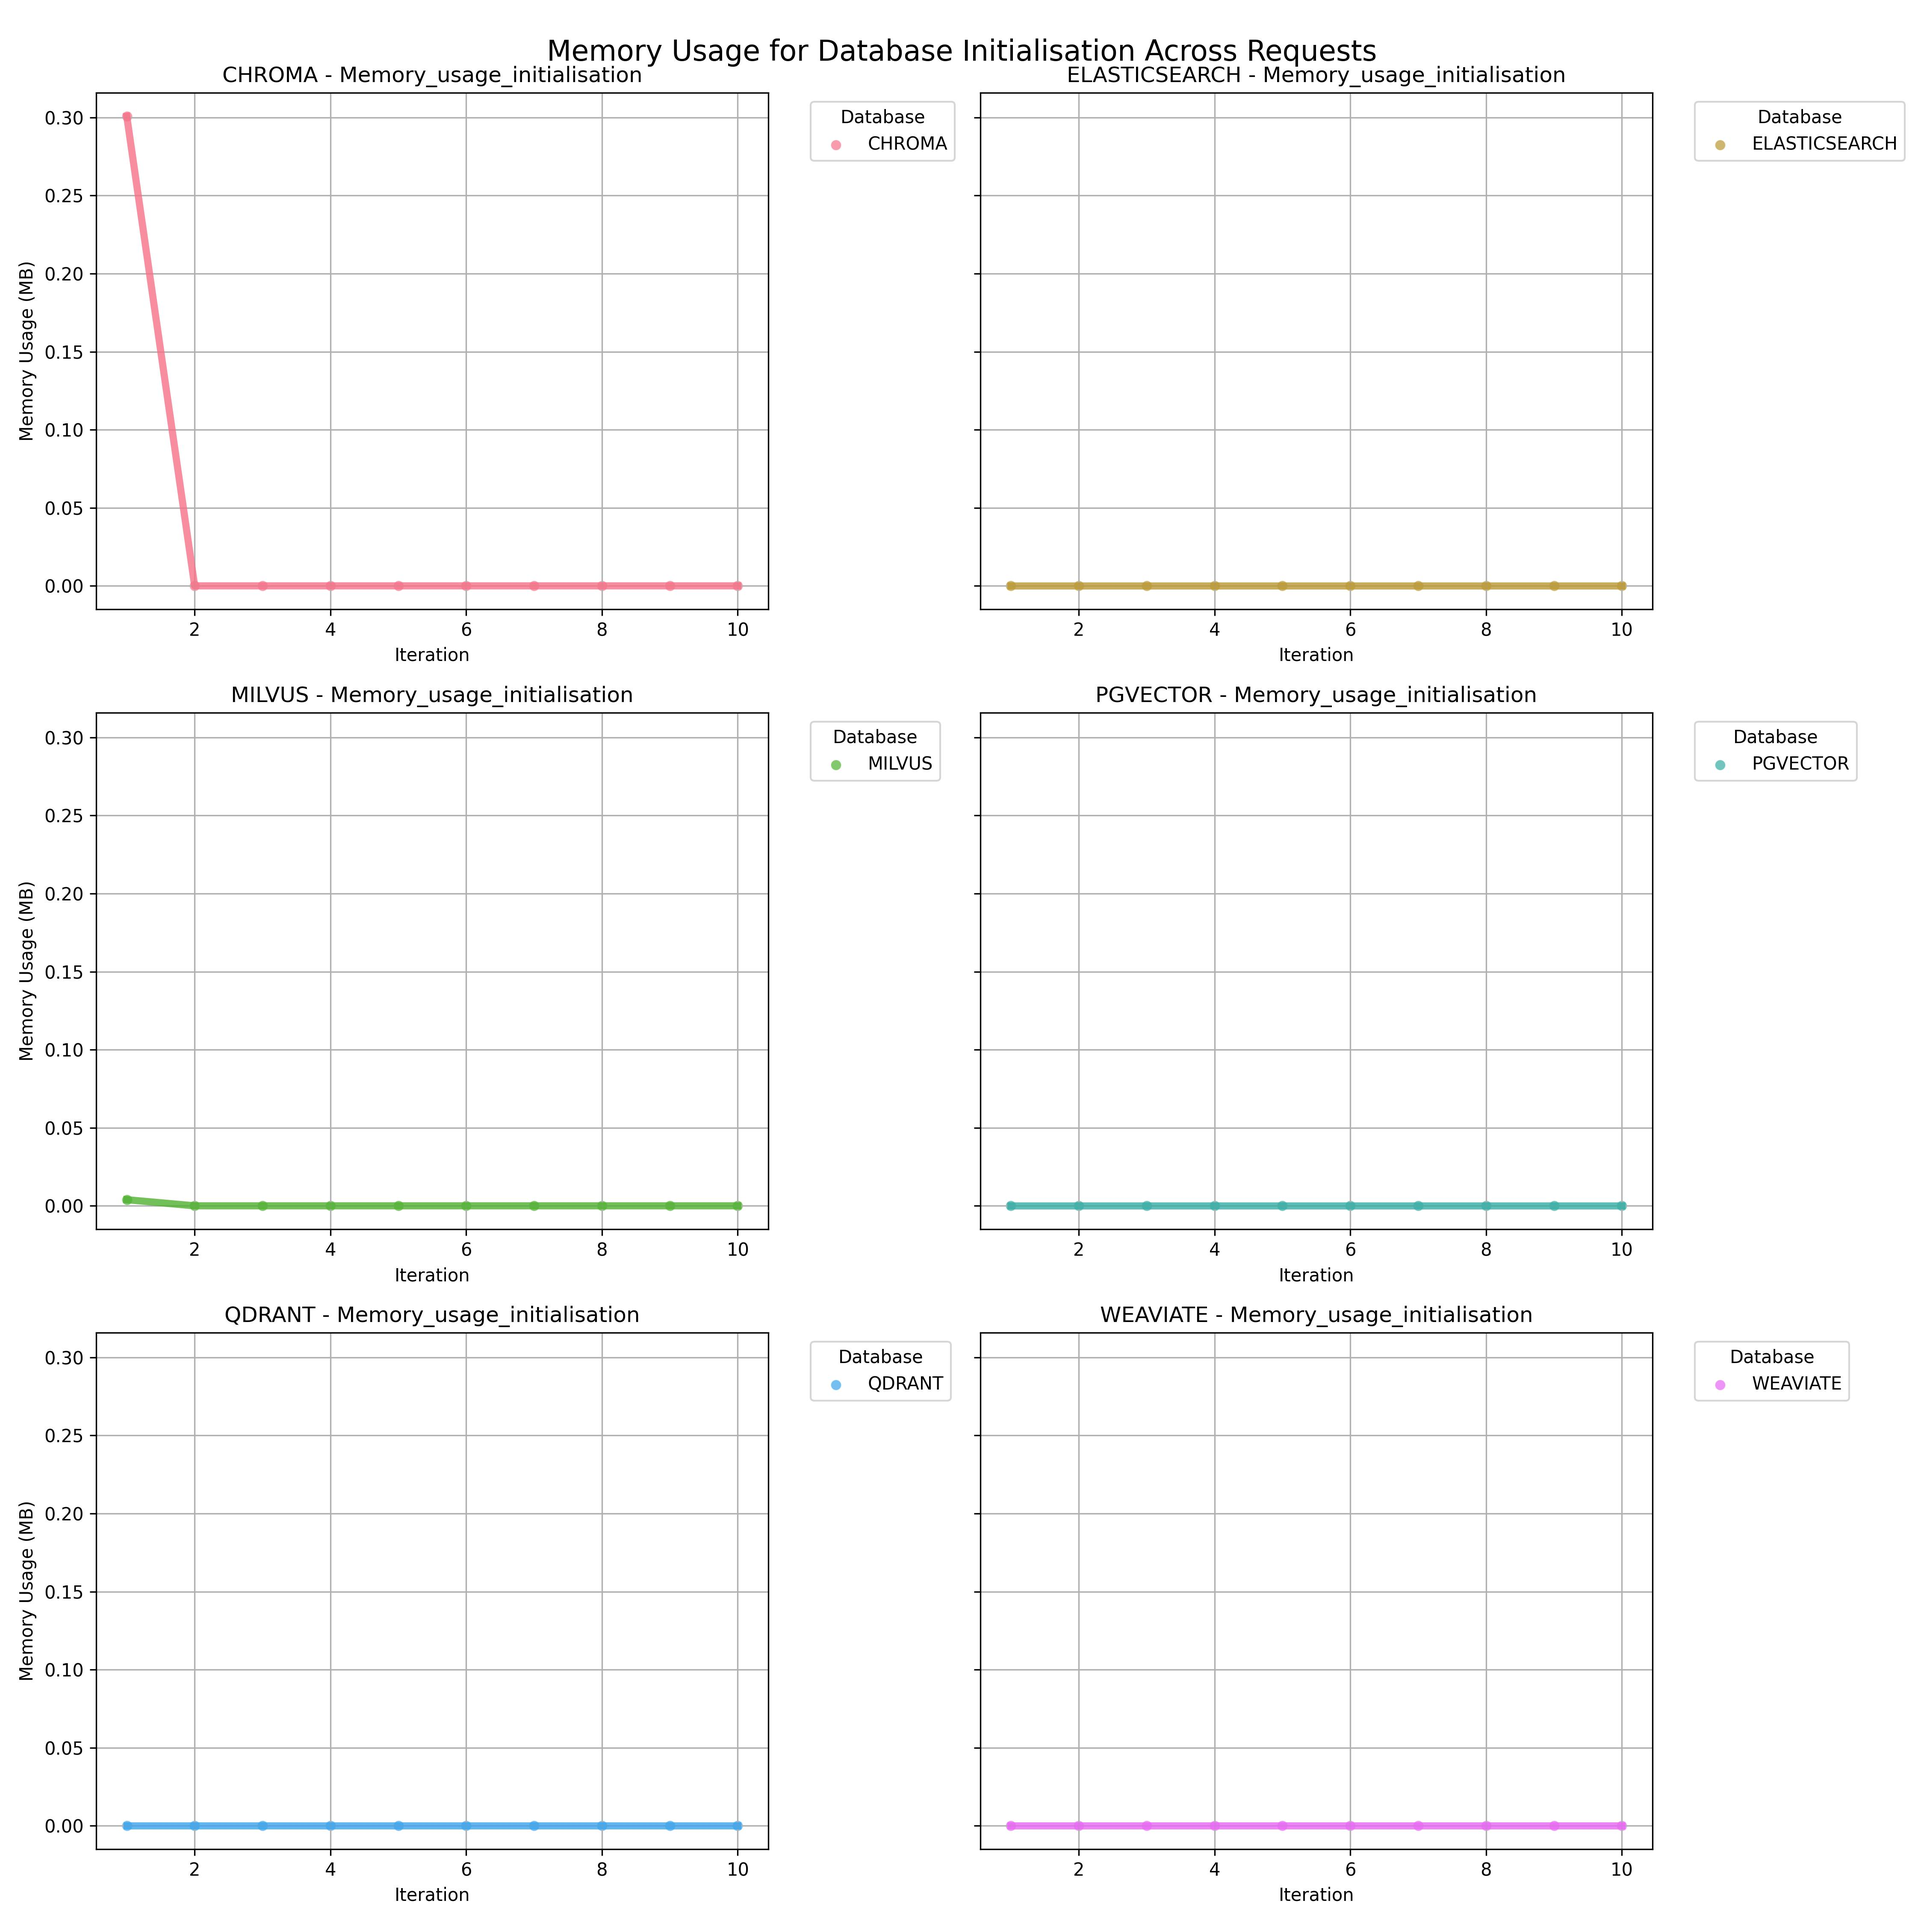
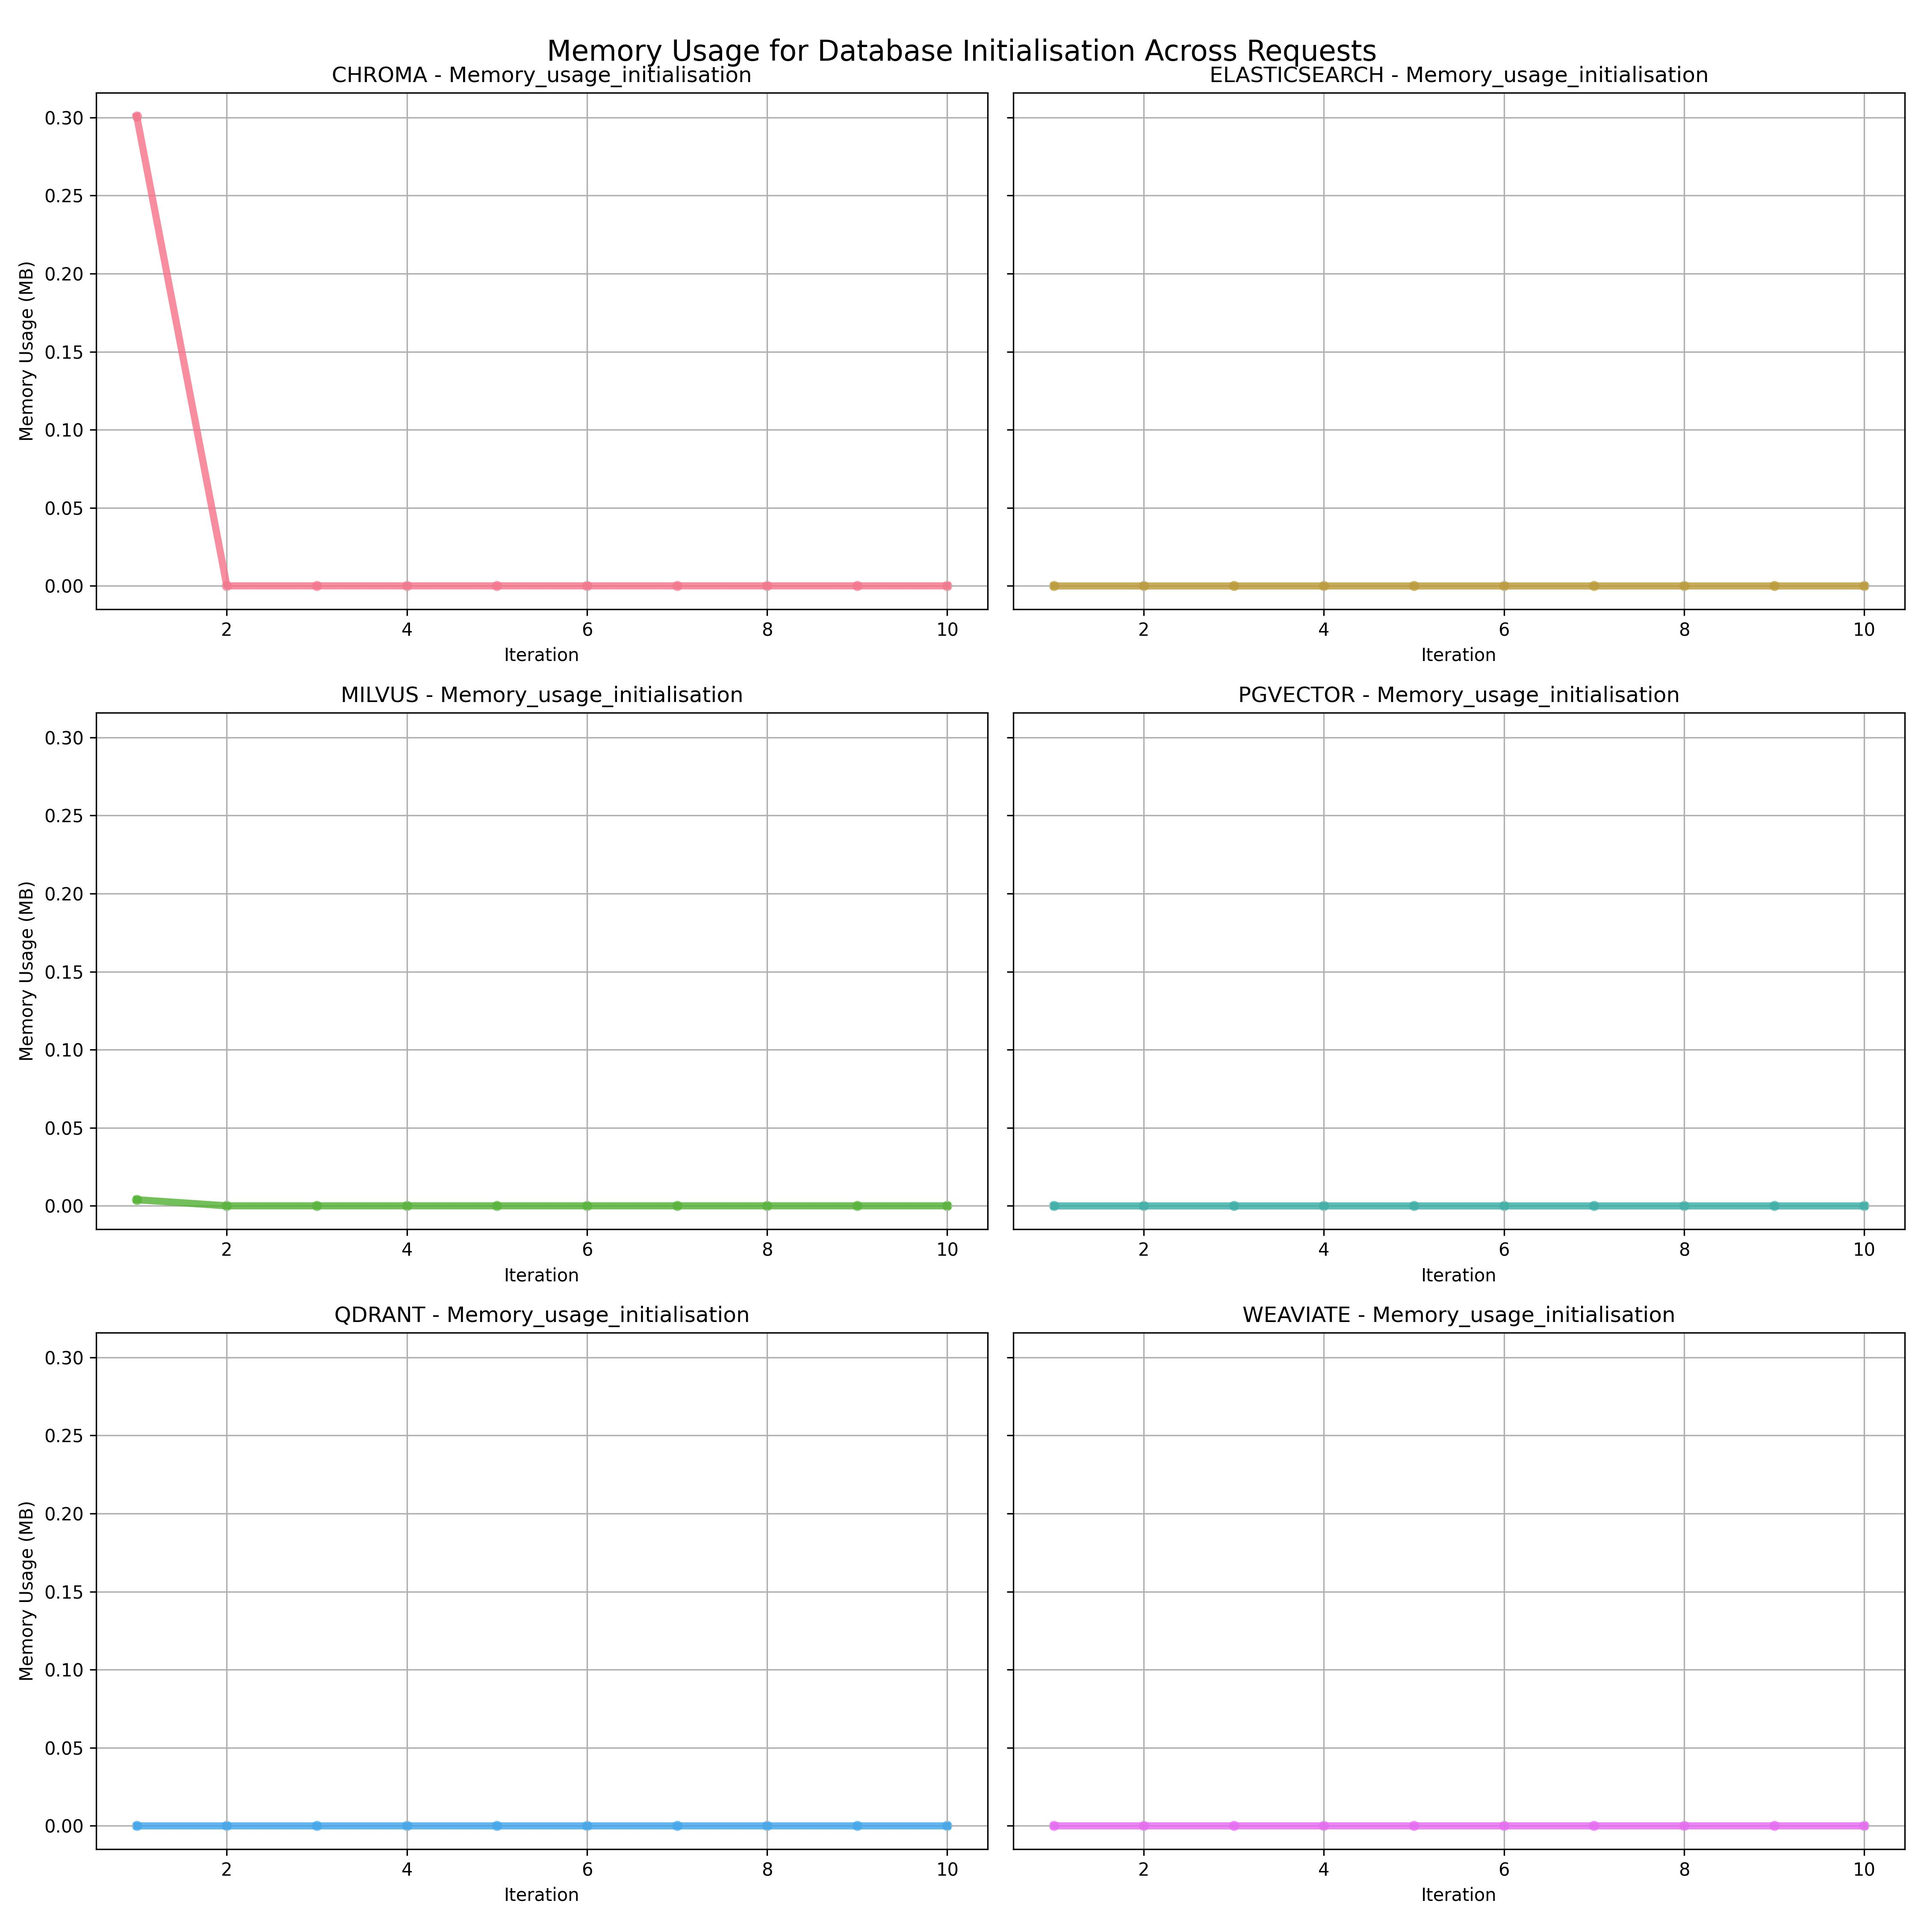
feat: remove legend from scatterplots

diff --git a/data_visualiser/main.py b/data_visualiser/main.py
@@ -26,7 +26,7 @@ def plot_metrics_scatterplot(
     file_name=None,
 ):
     """
-    Create a grid of scatterplots with a specified metric for all databases, using different colors for each database.
+    Create a grid of scatterplots with a specified metric for all databases.
     The grid will have 3 rows and 2 columns, and the Y-axis will be the same for all plots.
 
     Parameters:
@@ -56,7 +56,6 @@ def plot_metrics_scatterplot(
             x=df_valid["iteration"],
             y=df_valid[metric],
             color=colors[i],
-            label=db_name,
             alpha=0.7,
             ax=ax,
         )
@@ -72,9 +71,7 @@ def plot_metrics_scatterplot(
         ax.set_xlabel("Iteration")
         ax.set_ylabel(ylabel if ylabel else metric)
         ax.set_title(f"{db_name} - {metric.capitalize()}")
-        ax.legend(title="Database", bbox_to_anchor=(1.05, 1), loc="upper left")
         ax.grid(True)
-
         ax.yaxis.set_visible(True)
 
     fig.suptitle(
